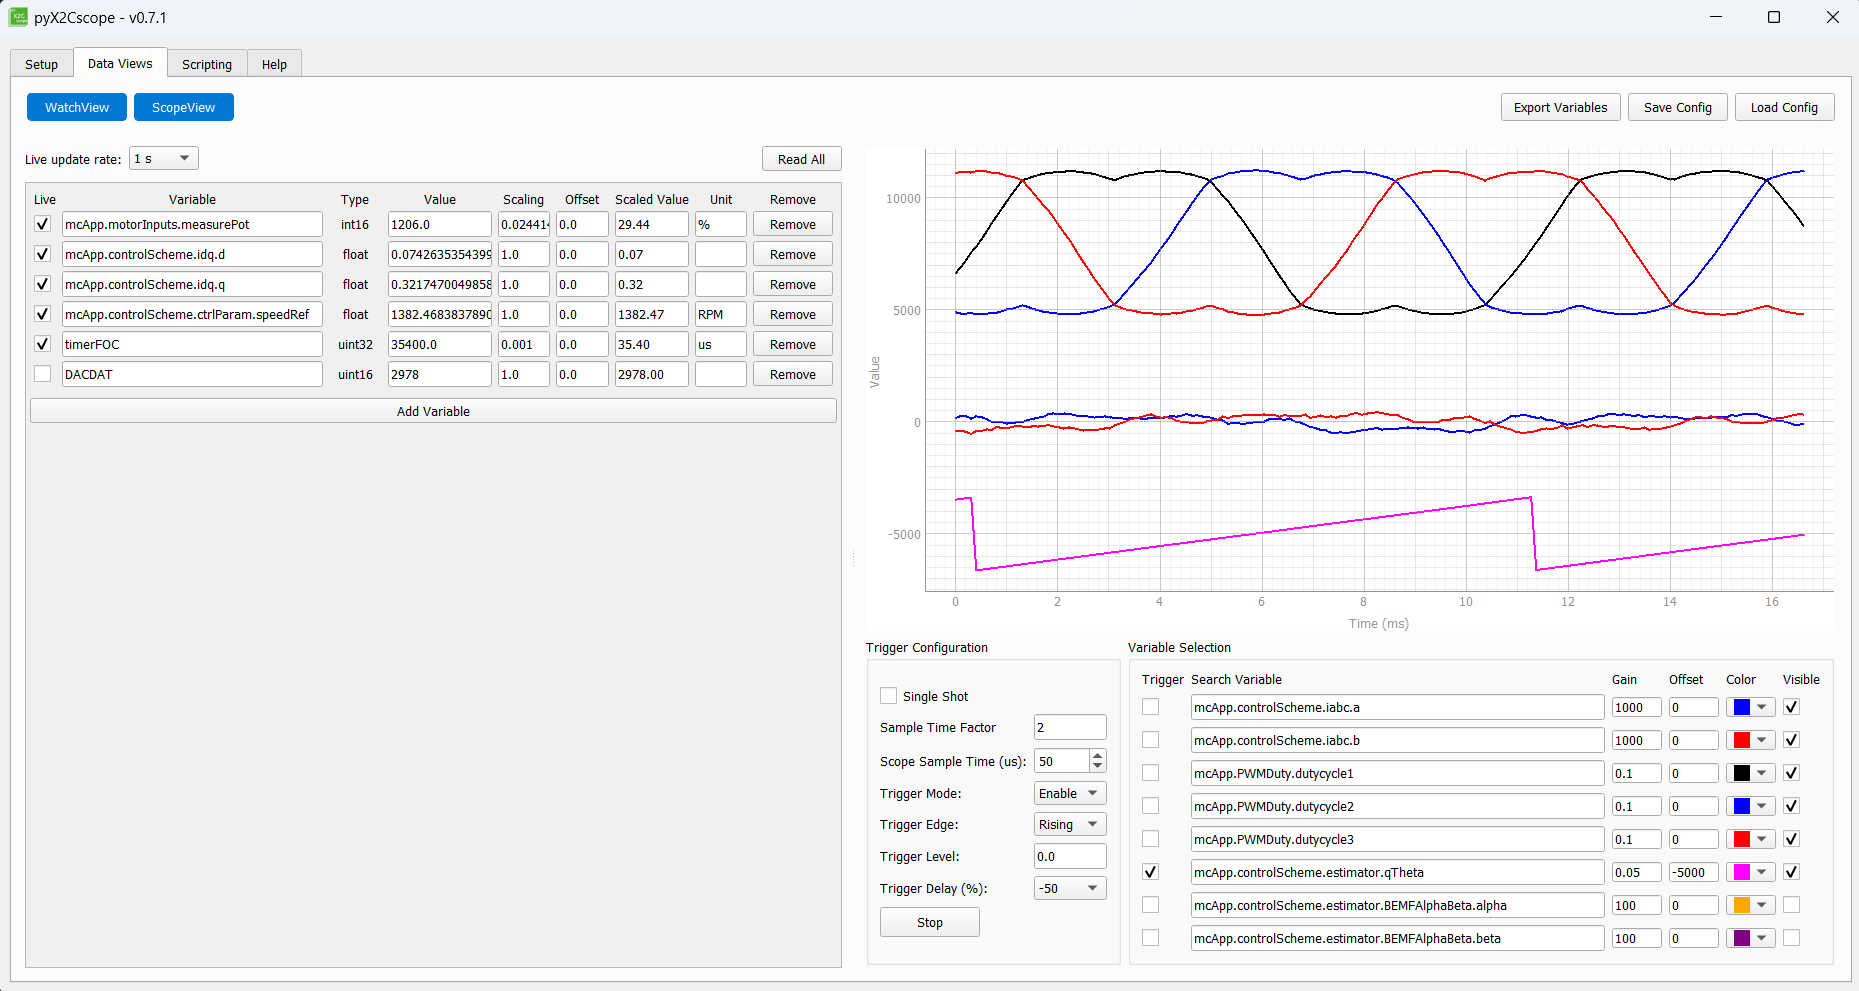
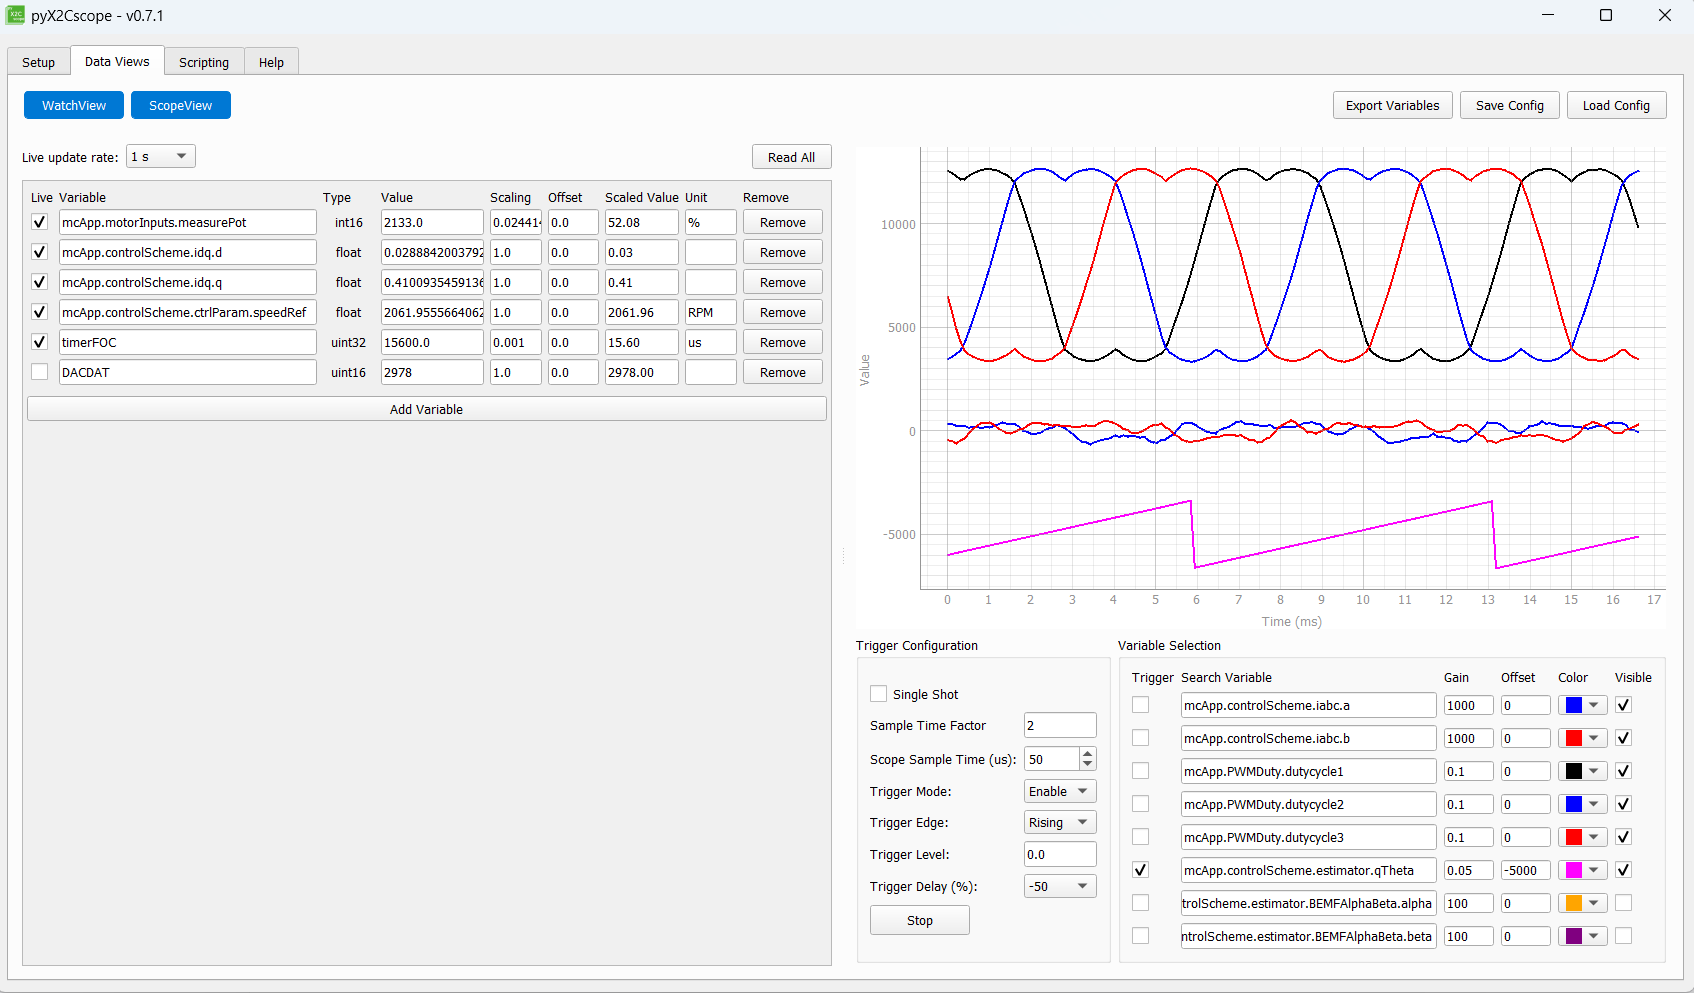
update FOC to 15us due -O3

diff --git a/README.md b/README.md
@@ -36,7 +36,7 @@
 
 This project implements **sensorless Field-Oriented Control (FOC)** of a 3-phase BLDC/PMSM motor on the **MCLV-48V-300W** evaluation board, using the **dsPIC33AK512MC510 DIM** module as the controller. The motor targeted by default is the **ACT 57BLF02** brushless DC motor.
 
-The FOC algorithm uses a **back-EMF PLL estimator** for sensorless rotor position and speed estimation, enabling smooth sinusoidal commutation without Hall sensors or encoders. The control loop executes at 20 kHz with a measured execution time of **~35 µs**.
+The FOC algorithm uses a **back-EMF PLL estimator** for sensorless rotor position and speed estimation, enabling smooth sinusoidal commutation without Hall sensors or encoders. The control loop executes at 20 kHz with a measured execution time of **~15.6 µs**.
 
 A key feature of this project is the integration of the **10BASE-T1S single-pair Ethernet** interface (IEEE 802.3cg) as the sole connectivity channel. X2Cscope, a real-time software oscilloscope, communicates with the host PC **entirely over the T1S network** — eliminating the need for a separate UART or USB debug cable.
 
@@ -50,7 +50,7 @@ All peripheral driver code is generated by **MPLAB Code Configurator (MCC) Melod
 - **Startup sequence** — rotor lock → open-loop forced angle ramp → closed-loop transition with smooth RRF variable transfer
 - **Speed control** — closed-loop PI speed controller with potentiometer reference and configurable ramp rates
 - **Flux weakening** — feed-forward or voltage-feedback field weakening for extended speed range
-- **20 kHz PWM** — three PWM generators (PG1/PG2/PG3) at 400 MHz PWM clock, 0.75 µs dead time, ~35 µs FOC execution time
+- **20 kHz PWM** — three PWM generators (PG1/PG2/PG3) at 400 MHz PWM clock, 0.75 µs dead time, ~15.6 µs FOC execution time
 - **Hardware overcurrent protection** — CMP3/DAC3 comparator with cycle-by-cycle PWM fault PCI (no software latency)
 - **Software overcurrent detection** — per-cycle phase current magnitude check with configurable fault threshold
 - **Smooth direction reversal** — FOC decelerates to zero speed under closed-loop control before restarting in the opposite direction
@@ -154,7 +154,7 @@ All peripheral driver code is generated by **MPLAB Code Configurator (MCC) Melod
                     Bandwidth test to 192.168.0.5:5001
 ```
 
-### FOC Control Loop (20 kHz, ~35 µs execution)
+### FOC Control Loop (20 kHz, ~15.6 µs execution)
 
 ```
 ADC ISR (PWM-triggered at 20 kHz)
@@ -249,9 +249,18 @@ Use the MPLAB extension **Program Device** action, or launch the debugger with `
 |---------|-------|
 | Device | `dsPIC33AK512MC510` |
 | Compiler | XC-DSC v3.31.01 |
-| Optimization | `-O1` |
+| Optimization | `-O3` |
 | Heap Size | 0 (no dynamic allocation) |
 | Include Paths | `src/`, `src/hal/`, `src/mc/`, `src/T1S/inc/`, `dsPIC33AK512MC510_MCLV48V300W_T1S/` |
+
+### Memory Usage
+
+| Region | Used | Total | Utilization |
+|--------|------|-------|:-----------:|
+| Program (Flash) | 144,568 bytes | 524,288 bytes | **27%** |
+| Data (RAM) | 21,188 bytes | 65,536 bytes | **32%** |
+| Stack (max available) | 44,348 bytes | — | — |
+| Heap | 0 bytes | 0 bytes | Disabled |
 
 ---
 
@@ -303,7 +312,7 @@ X2Cscope provides a real-time software oscilloscope view of internal firmware va
 | `mcApp.controlScheme.idq.d` | float | 1.0 | A | Measured d-axis current |
 | `mcApp.controlScheme.idq.q` | float | 1.0 | A | Measured q-axis current |
 | `mcApp.controlScheme.ctrlParam.speedRef` | float | 1.0 | RPM | Speed reference |
-| `timerFOC` | uint32 | 0.001 | µs | FOC loop execution time (~35 µs) |
+| `timerFOC` | uint32 | 0.001 | µs | FOC loop execution time (~15.6 µs) |
 | `DACDAT` (SFR) | uint16 | 1.0 | counts | CMP3 overcurrent DAC threshold |
 
 ### Connecting